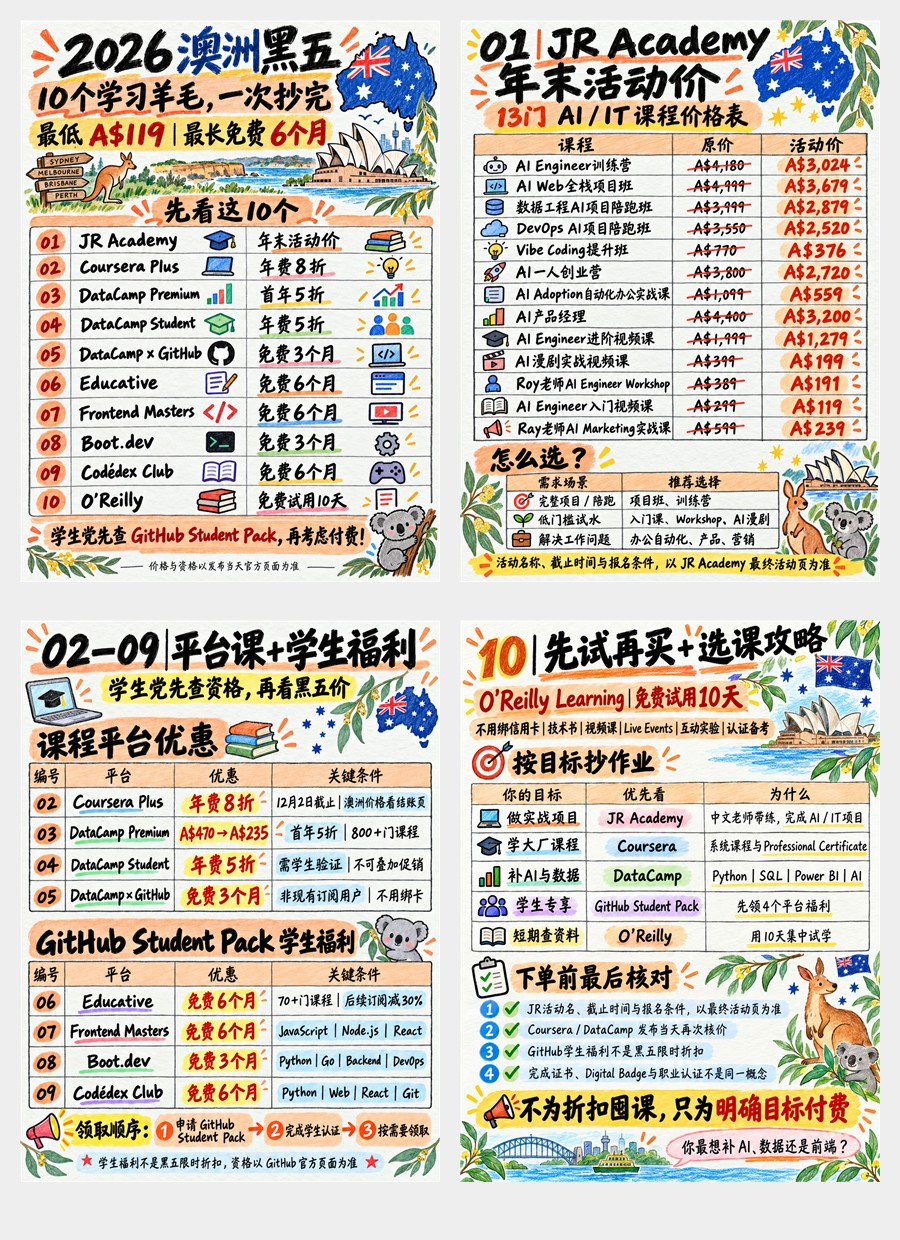
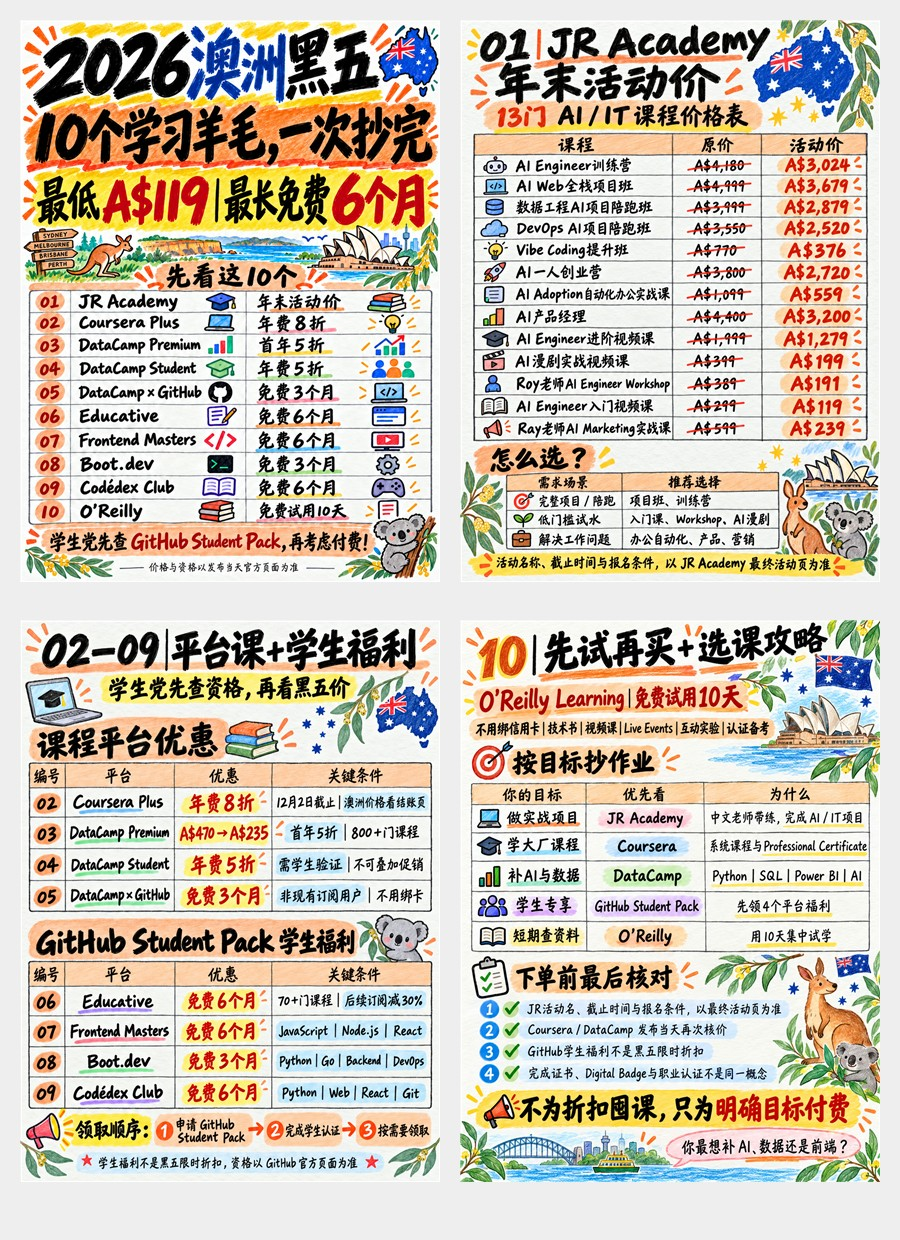
design: enlarge Black Friday cover headlines

Changed region(s): [[0.0311, 0.0, 0.4978, 0.4903]]

diff --git a/xhs-content-factory/drafts/2026-10-21/002-aozhoujiangren-black-friday-10/posters/image-model-v3/01-title-large-prompt.md b/xhs-content-factory/drafts/2026-10-21/002-aozhoujiangren-black-friday-10/posters/image-model-v3/01-title-large-prompt.md
@@ -1,0 +1,11 @@
+# 第一张封面放大标题修改
+
+使用内置 OpenAI image model 对 `01-image-model.png` 做定点编辑：
+
+- 将 `2026 澳洲黑五` 放大为横跨顶部的第一视觉层级。
+- 将 `10个学习羊毛，一次抄完` 放大为橙色底的核心钩子。
+- 将 `最低 A$119｜最长免费 6个月` 放大，并突出红色数字。
+- 澳洲地图和悉尼插画缩成角落装饰。
+- 10 项优惠列表整体下移并压缩，但保持完整可读。
+- 修正模型首次生成的 `Boot..dev`，最终文字为 `Boot.dev`。
+- 其余优惠名称、数字、排序和页脚保持不变。
